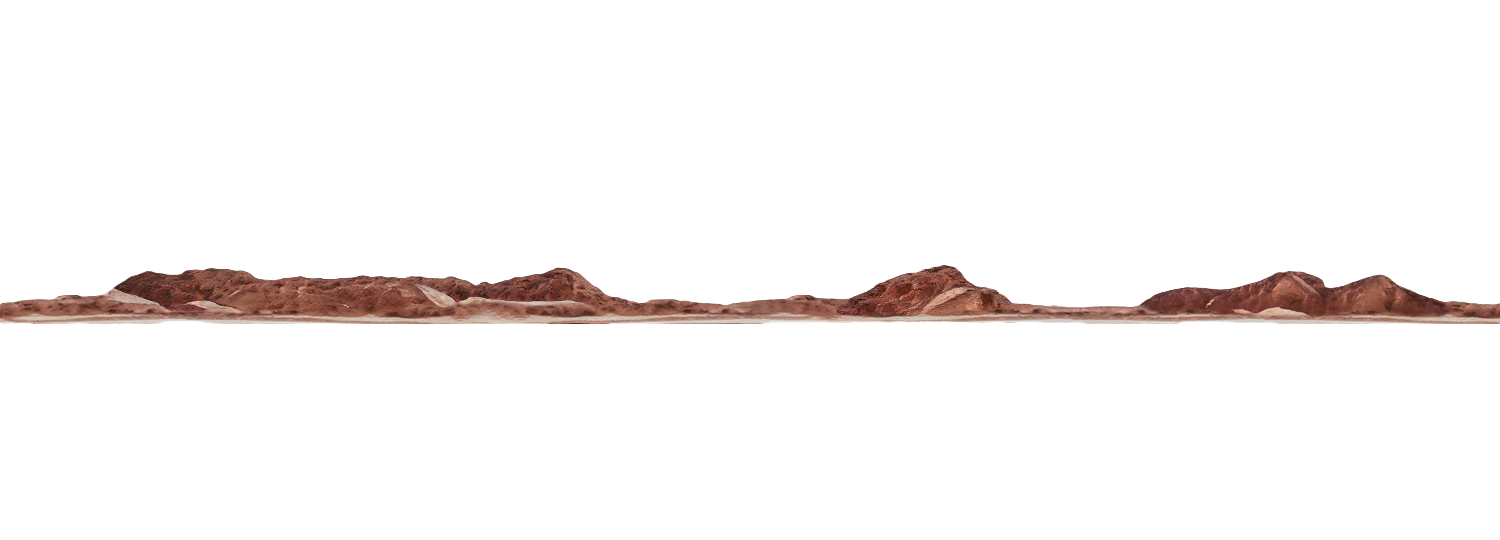
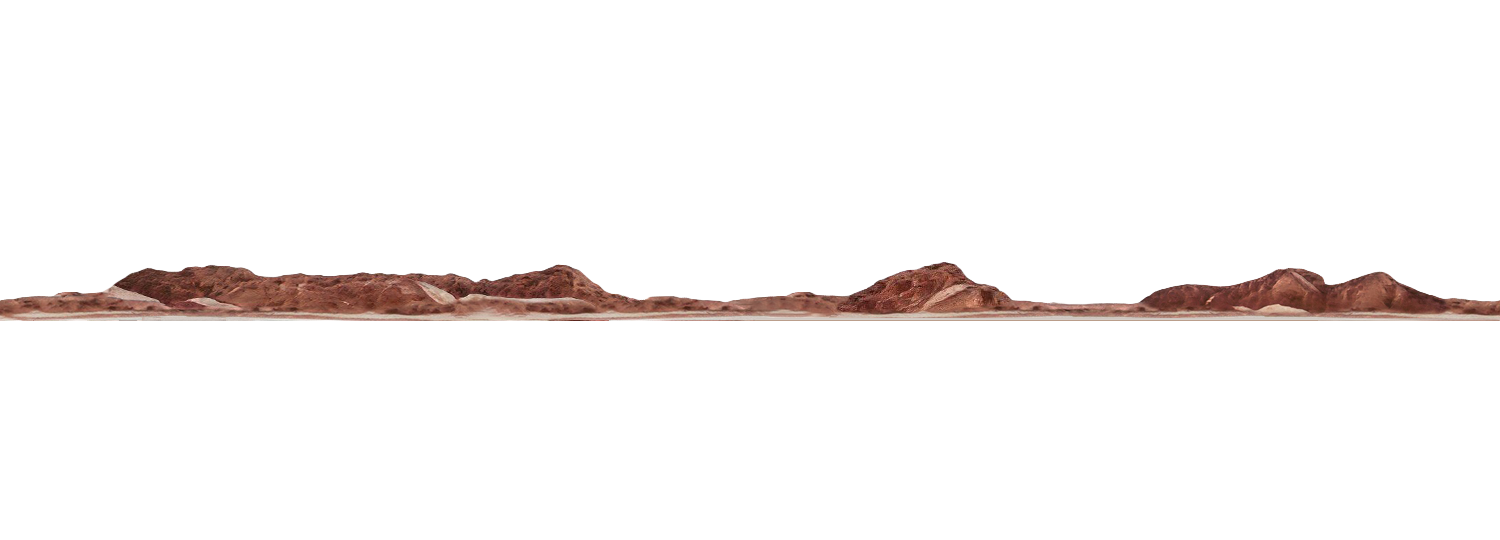
Cordilheiras Andantes ajustes finais

Changed region(s): [[0.0, 0.4741, 1.0, 0.6222]]

diff --git a/trabalhos/sketch.js b/trabalhos/sketch.js
@@ -20,12 +20,9 @@ function setup() {
 
   
 
-  cenario_1 = new Cenario(imagemCena_1, imagemCena_2, 0.1,);
-  //cenario_2 = new Cenario(imagemCena_2, 1.5);
-  cenario_3 = new Cenario(imagemCena_3, imagemCena_4, 0.2,);
-  //cenario_4 = new Cenario(imagemCena_4, 2.5);
-  cenario_5 = new Cenario(imagemCena_5, imagemCena_5, 0.25,);
-  //cenario_6 = new Cenario(imagemCena_6, 3);
+  cenario_1 = new Cenario(imagemCena_1, imagemCena_2, 0.15,);
+  cenario_3 = new Cenario(imagemCena_3, imagemCena_4, 0.25,);
+  cenario_5 = new Cenario(imagemCena_5, imagemCena_5, 0.30,);
 
 
 }
@@ -35,23 +32,20 @@ function draw() {
 
   cenario_1.exibe();
   cenario_1.move();
-  //cenario_2.exibe();
-  //cenario_2.move();
   cenario_3.exibe();
   cenario_3.move();
-  //cenario_4.exibe();
-  //cenario_4.move();
   cenario_5.exibe();
   cenario_5.move();
 
 }
 
 function preload() {
+  imagemCena_5 = loadImage('modulos/layer5.png');
   imagemCena_1 = loadImage('modulos/layer1.png');
   imagemCena_2 = loadImage('modulos/layer2.png');
   imagemCena_3 = loadImage('modulos/layer3.png');
   imagemCena_4 = loadImage('modulos/layer4.png');
-  imagemCena_5 = loadImage('modulos/layer5.png');
-  imagemCena_6 = loadImage('modulos/layer5-2.png');
+
+
 
 }
